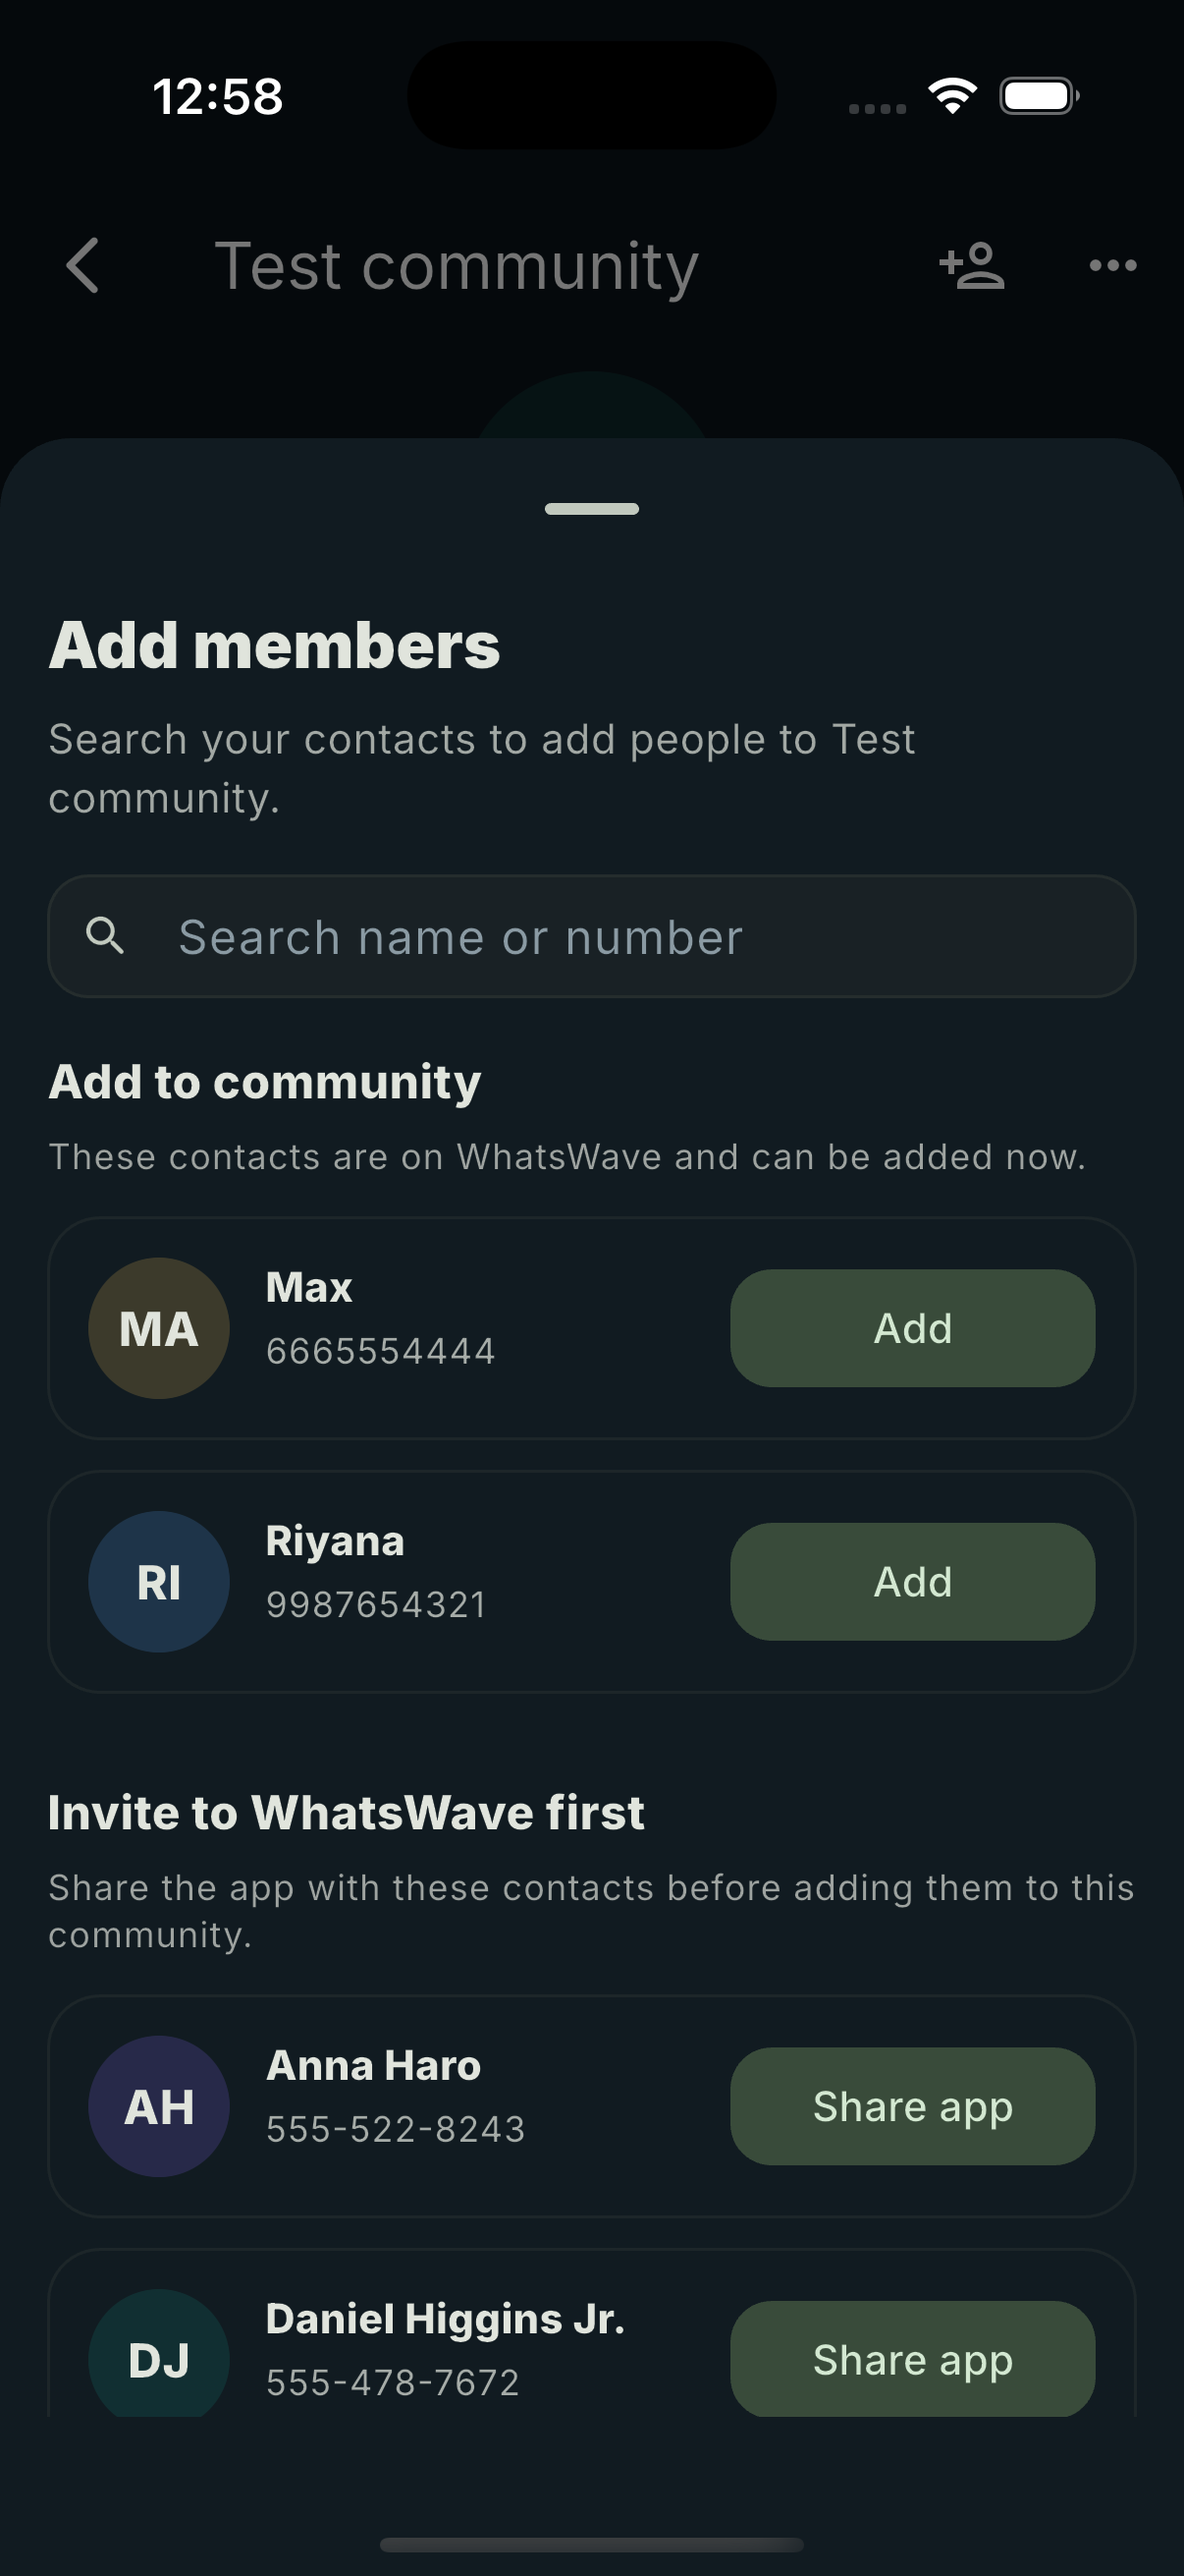
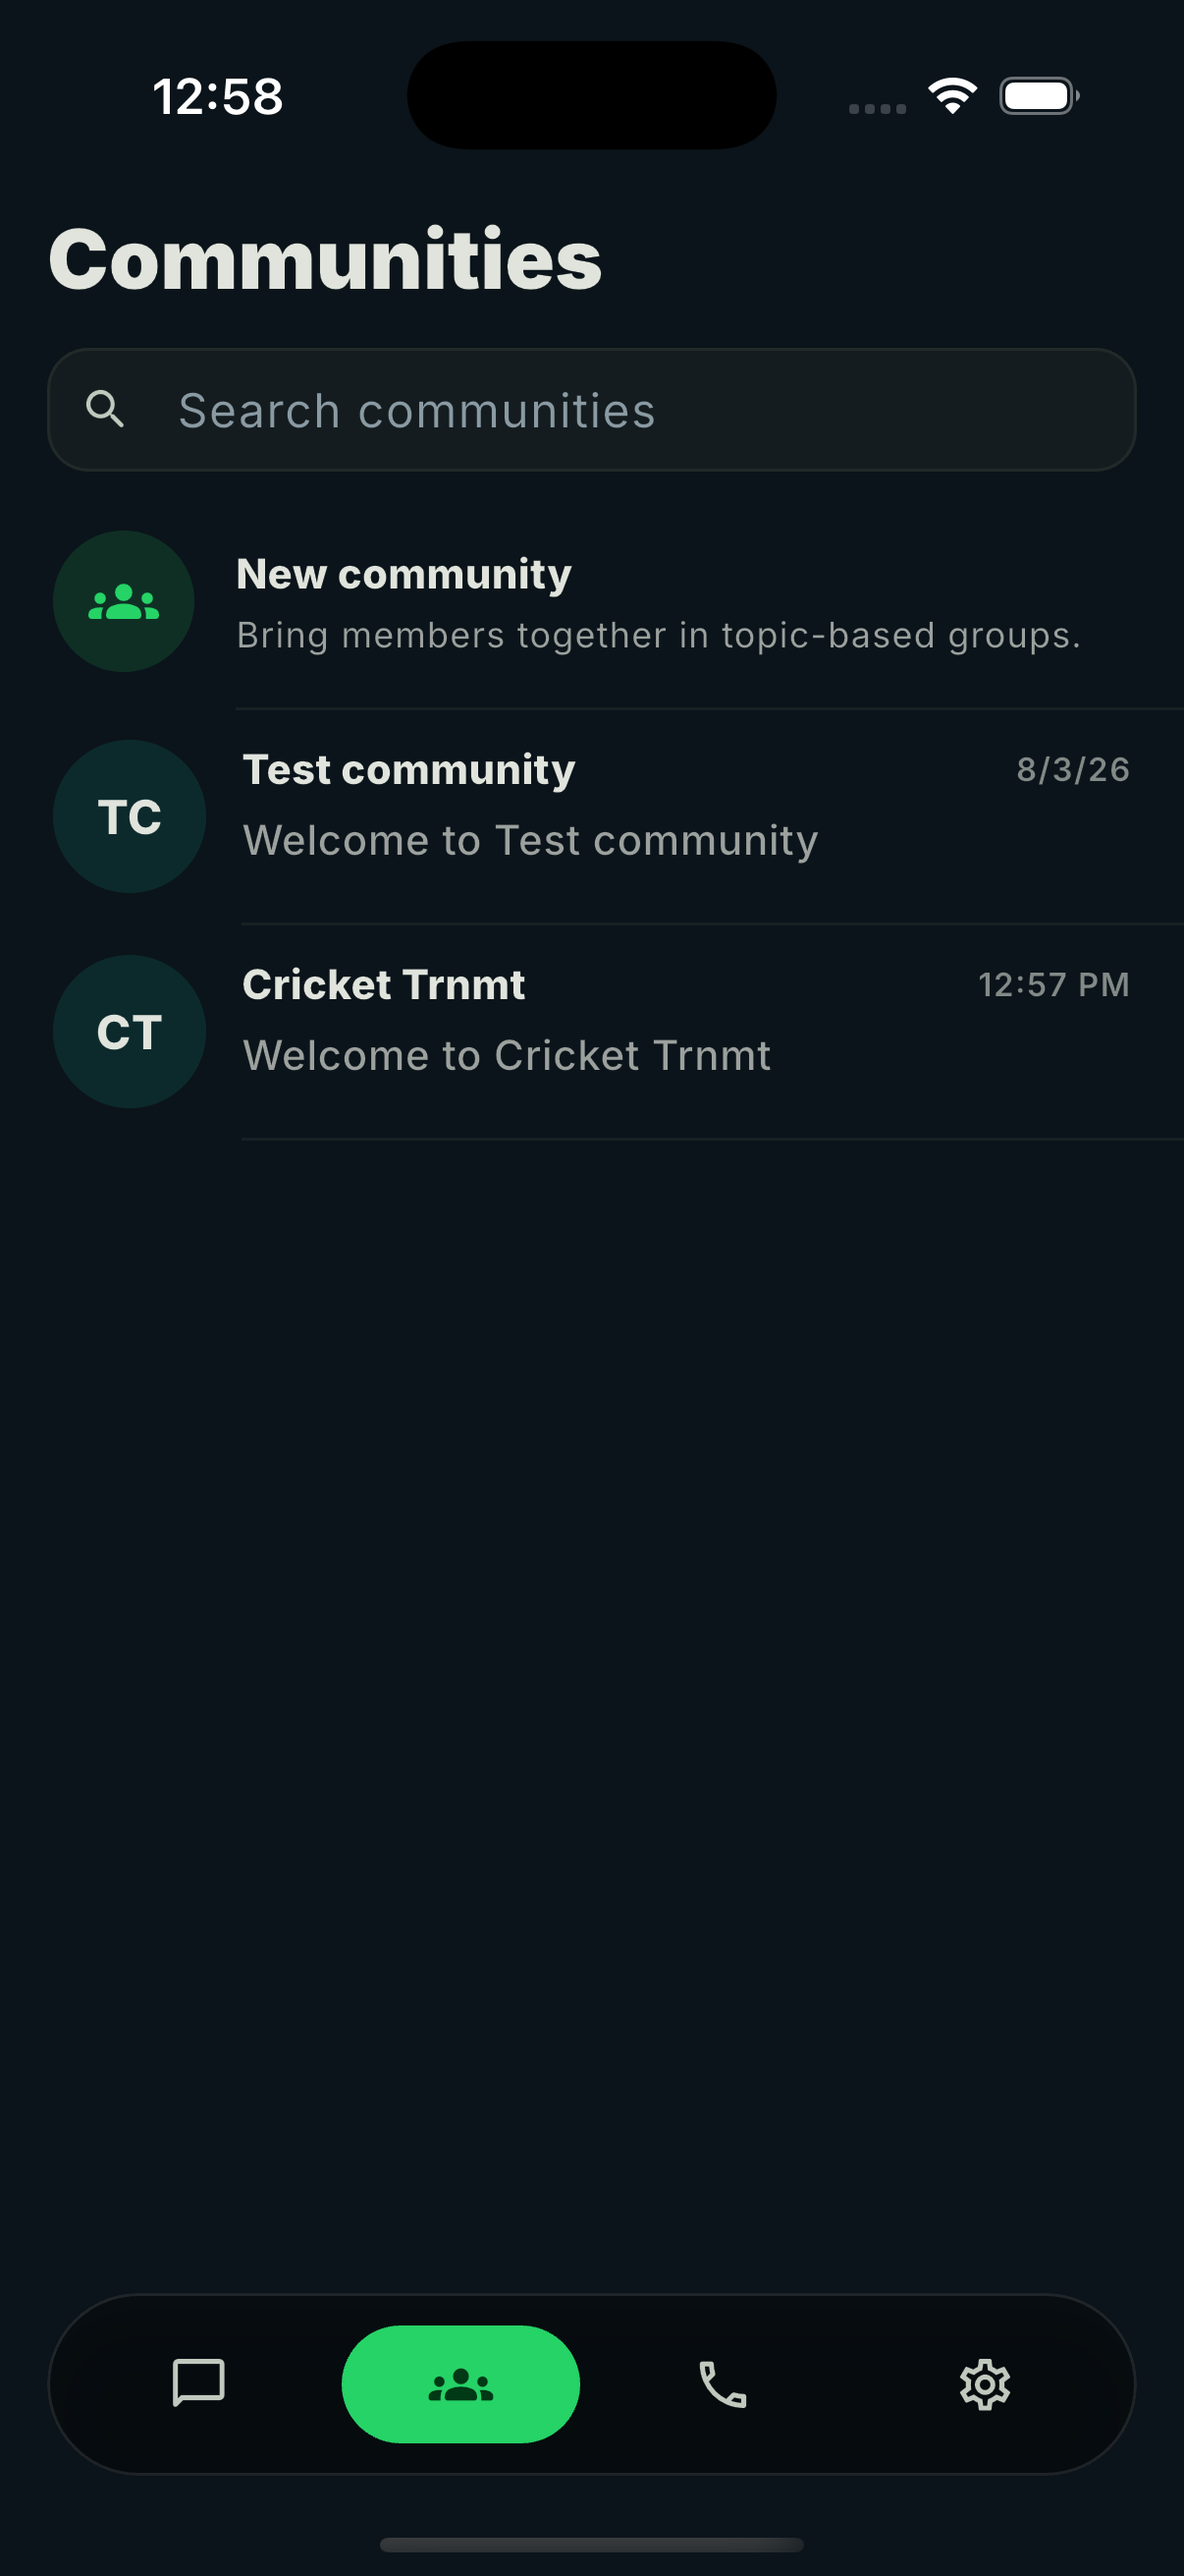
Fix swapped Communities/Calls screenshots, add 3 more README shots
07-communities-tab.png and 08-calls-tab.png had been mixed up with an
"Add members" sheet and the Communities list; swap in the actual tab
screens. Also add group info, contact info, and the text status
composer to round out the feature showcase.

diff --git a/README.md b/README.md
@@ -22,6 +22,10 @@ Running on the iOS Simulator (iPhone 17 Pro).
 |---|---|---|---|
 | ![Settings](docs/screenshots/09-settings-tab.png) | ![Draw tool](docs/screenshots/10-draw-tool-colors.png) | ![Crop tool](docs/screenshots/11-crop-tool-ratios.png) | ![Music picker](docs/screenshots/12-music-picker.png) |
 
+| Group info | Contact info | Text status |
+|---|---|---|
+| ![Group info](docs/screenshots/13-group-info.png) | ![Contact info](docs/screenshots/14-contact-info.png) | ![Text status](docs/screenshots/15-text-status-composer.png) |
+
 <sub>The status composer's draw, crop, and music tools (above) load their music catalog live from Firestore/Storage.</sub>
 
 This repository is being built in small, reviewable phases:
